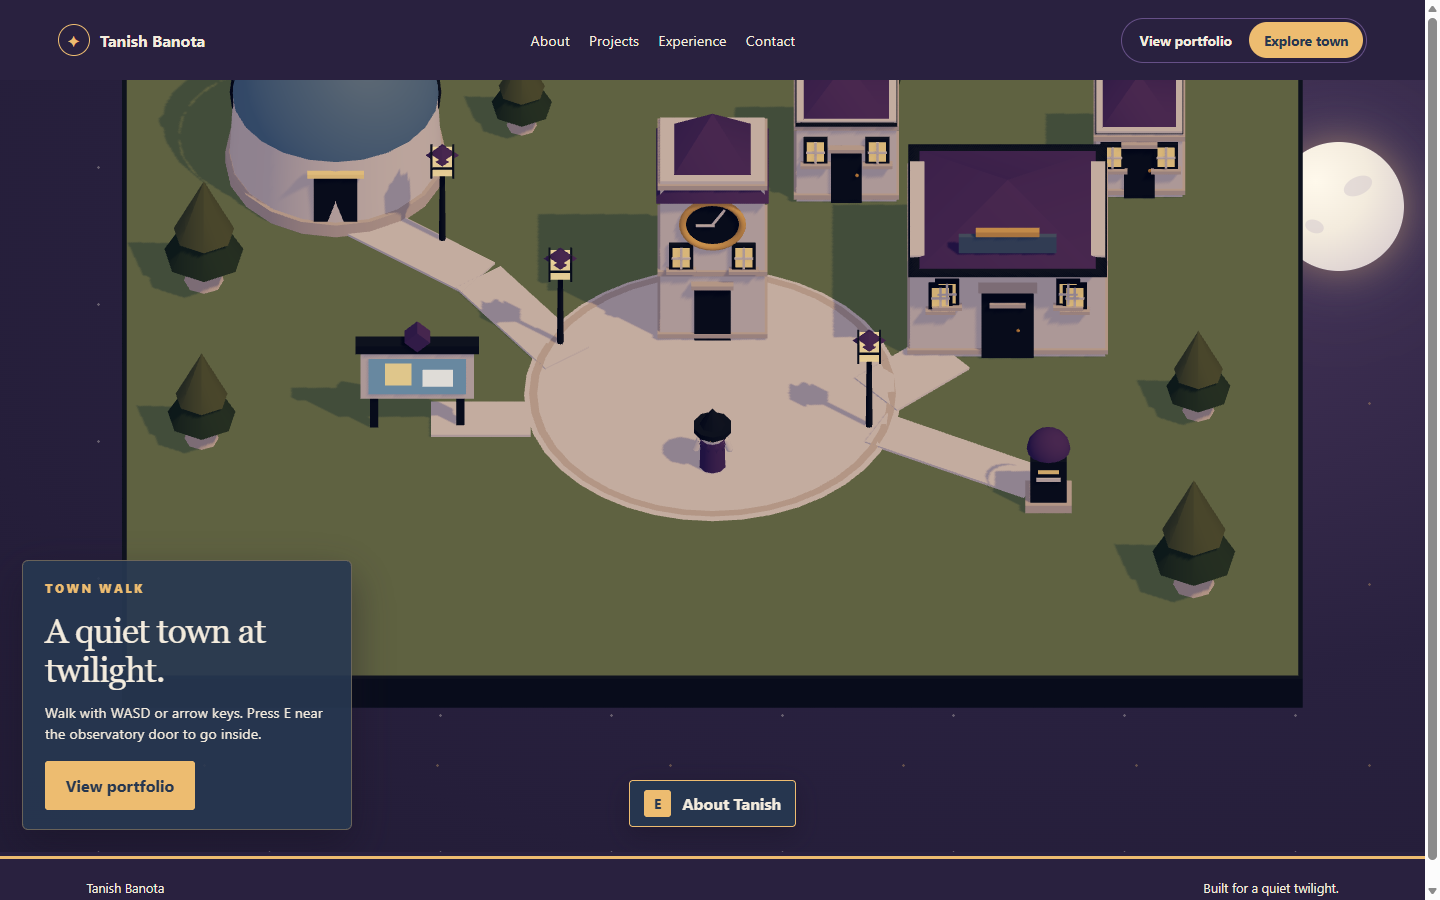
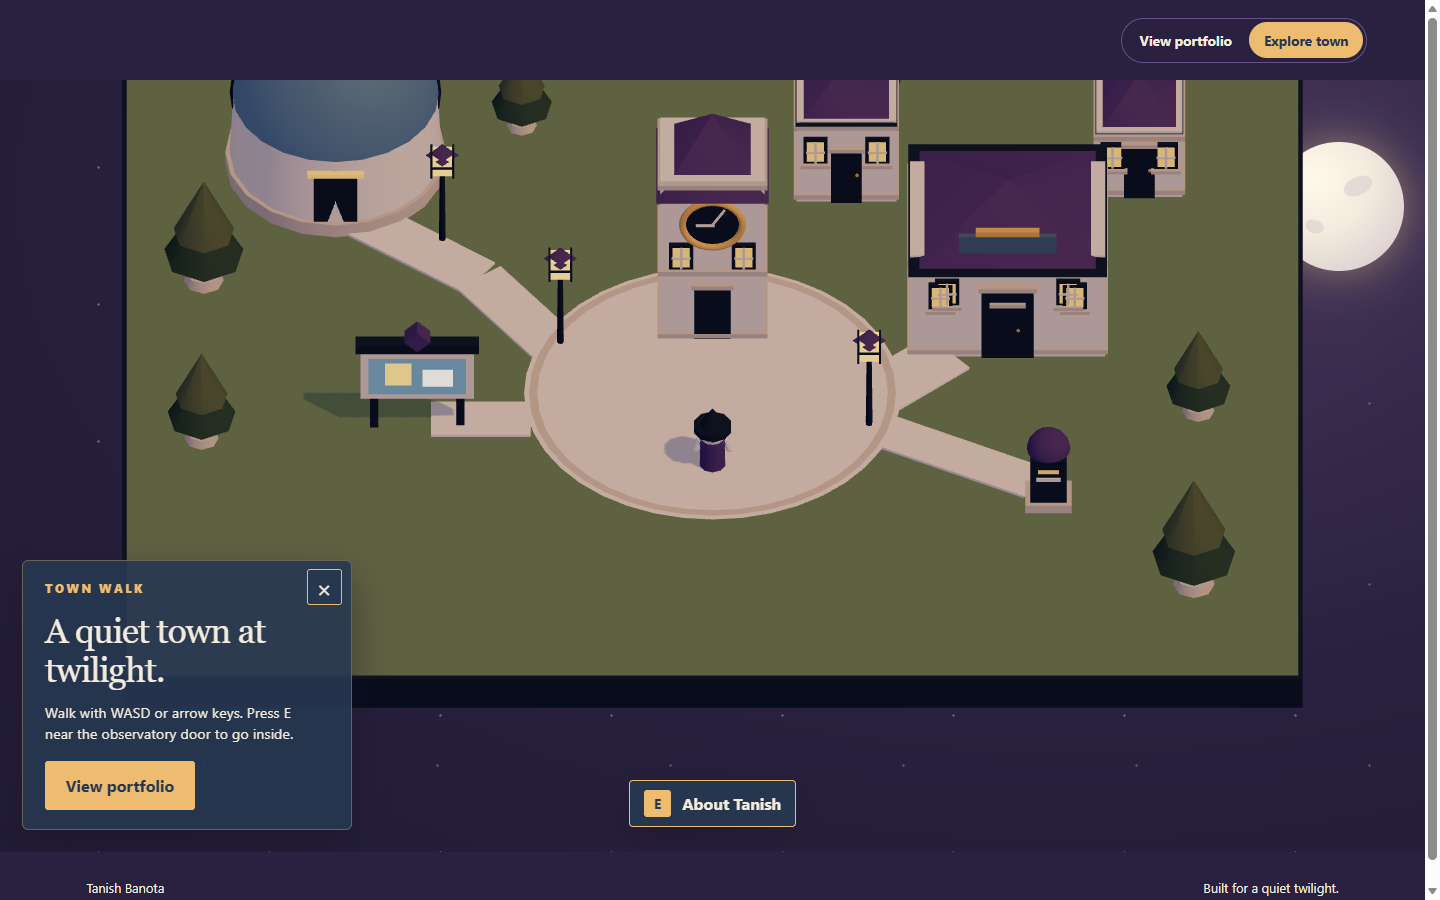
Fixing rendering bugs, editing UI

diff --git a/src/App.tsx b/src/App.tsx
@@ -29,19 +29,32 @@ function WorldMessage({ failed, onExit, onRetry }: { failed: boolean; onExit: ()
   </main>;
 }
 
+function ViewSwitch({ isWorld, onPortfolio, onExplore }: { isWorld: boolean; onPortfolio: () => void; onExplore: () => void }) {
+  return <div className="view-switch">
+    <button type="button" aria-pressed={!isWorld} onClick={onPortfolio}>View portfolio</button>
+    <button type="button" aria-pressed={isWorld} onClick={onExplore}>Explore town</button>
+  </div>;
+}
+
 export default function App() {
-  const [view, setView] = useState<View>(() => import.meta.env.DEV && /(?:asset-export|preview)=/.test(window.location.search) ? 'world' : 'portfolio');
-  const [worldFailed, setWorldFailed] = useState(false);
+  const [view, setView] = useState<View>(() => new URLSearchParams(window.location.search).get('view') === 'portfolio' ? 'portfolio' : 'world');
+  const [worldFailed, setWorldFailed] = useState(() => !webglAvailable());
   const [attempt, setAttempt] = useState(0);
   const focusPortfolio = useRef(false);
   const isWorld = view === 'world';
 
   const showPortfolio = () => {
     focusPortfolio.current = true;
+    const url = new URL(window.location.href);
+    url.searchParams.set('view', 'portfolio');
+    window.history.replaceState(null, '', url);
     setView('portfolio');
     setWorldFailed(false);
   };
   const explore = () => {
+    const url = new URL(window.location.href);
+    url.searchParams.delete('view');
+    window.history.replaceState(null, '', url);
     setAttempt((current) => current + 1);
     setWorldFailed(!webglAvailable());
     setView('world');
@@ -57,27 +70,26 @@ export default function App() {
 
   const failure = <WorldMessage failed onExit={showPortfolio} onRetry={explore} />;
 
-  return <div className="site-shell">
+  return <div className={`site-shell ${isWorld ? 'world-mode' : ''}`}>
     <a className="skip-link" href="#main-content">Skip to main content</a>
-    <header className="site-header">
-      <a className="brand" href="#about" onClick={showPortfolio} aria-label={`${portfolio.name}, portfolio home`}>
-        <span className="brand-mark" aria-hidden="true">✦</span>
-        <span>{portfolio.name}</span>
-      </a>
-      <nav aria-label="Main navigation">
-        <a href="#about" onClick={showPortfolio}>About</a>
-        <a href="#projects" onClick={showPortfolio}>Projects</a>
-        <a href="#experience" onClick={showPortfolio}>Experience</a>
-        <a href="#contact" onClick={showPortfolio}>Contact</a>
-      </nav>
+    {!isWorld ? <header className="site-header">
+        <a className="brand" href="#about" onClick={showPortfolio} aria-label={`${portfolio.name}, portfolio home`}>
+          <span className="brand-mark" aria-hidden="true">✦</span>
+          <span>{portfolio.name}</span>
+        </a>
+        <nav aria-label="Main navigation">
+          <a href="#about" onClick={showPortfolio}>About</a>
+          <a href="#projects" onClick={showPortfolio}>Projects</a>
+          <a href="#experience" onClick={showPortfolio}>Experience</a>
+          <a href="#contact" onClick={showPortfolio}>Contact</a>
+        </nav>
       <div className="view-control">
-        <div className="view-switch">
-          <button type="button" aria-pressed={!isWorld} onClick={showPortfolio}>View portfolio</button>
-          <button type="button" aria-pressed={isWorld} onClick={explore}>Explore town</button>
-        </div>
+        <ViewSwitch isWorld={isWorld} onPortfolio={showPortfolio} onExplore={explore} />
         <span className="explore-note">Town exploration needs a keyboard.</span>
       </div>
-    </header>
+    </header> : <div className="world-view-switch">
+      <ViewSwitch isWorld={isWorld} onPortfolio={showPortfolio} onExplore={explore} />
+    </div>}
     {isWorld ? worldFailed ? failure : (
       <WorldErrorBoundary key={attempt} fallback={failure}>
         <Suspense fallback={<WorldMessage failed={false} onExit={showPortfolio} />}>

diff --git a/src/world/Town.tsx b/src/world/Town.tsx
@@ -6,9 +6,9 @@ type Position = [number, number, number];
 
 // The kit is built at world scale with bases at y=0. Decorative pieces never
 // participate in collision; collision.ts retains the approved footprints.
-function StoneCourse({ width, depth, y }: { width: number; depth: number; y: number }) {
+function StoneCourse({ width, depth, y, thickness = 0.13 }: { width: number; depth: number; y: number; thickness?: number }) {
   return <mesh position={[0, y, 0]} castShadow receiveShadow>
-    <boxGeometry args={[width + 0.12, 0.13, depth + 0.12]} />
+    <boxGeometry args={[width + 0.12, thickness, depth + 0.12]} />
     <meshStandardMaterial color={paint.stoneShade} roughness={1} />
   </mesh>;
 }
@@ -34,8 +34,8 @@ function Path({ from, to, width = 1.2 }: { from: Point; to: Point; width?: numbe
   );
 }
 
-function Building({ position, width = 2.2, depth = 2, height = 2.4, roof = paint.roof }: {
-  position: Position; width?: number; depth?: number; height?: number; roof?: string;
+function Building({ position, width = 2.2, depth = 2, height = 2.4, roof = paint.roof, groundedFoundation = false }: {
+  position: Position; width?: number; depth?: number; height?: number; roof?: string; groundedFoundation?: boolean;
 }) {
   return (
     <group position={position}>
@@ -43,7 +43,8 @@ function Building({ position, width = 2.2, depth = 2, height = 2.4, roof = paint
         <boxGeometry args={[width, height, depth]} />
         <meshStandardMaterial color={paint.cream} roughness={1} />
       </mesh>
-      <StoneCourse width={width} depth={depth} y={0.18} />
+      {/* Rear houses need a continuous stone edge below the terrain plane. */}
+      <StoneCourse width={width} depth={depth} y={groundedFoundation ? 0.1 : 0.18} thickness={groundedFoundation ? 0.24 : 0.13} />
       <StoneCourse width={width} depth={depth} y={height - 0.18} />
       <mesh position={[0, height + 0.38, 0]} rotation={[0, Math.PI / 4, 0]} castShadow>
         <coneGeometry args={[Math.max(width, depth) * 0.66, 0.92, 4]} />
@@ -254,11 +255,11 @@ export function Town() {
         <planeGeometry args={[25.8, 20.8]} />
         <meshStandardMaterial color={paint.grass} emissive={paint.grass} emissiveIntensity={0.25} roughness={1} />
       </mesh>
-      <mesh rotation={[-Math.PI / 2, 0, 0]} position={[0, 0.03, 1.2]} receiveShadow>
+      <mesh rotation={[-Math.PI / 2, 0, 0]} position={[0, 0.08, 1.2]} receiveShadow>
         <circleGeometry args={[4.15, 40]} />
         <meshStandardMaterial color={paint.cream} roughness={1} />
       </mesh>
-      <mesh rotation={[-Math.PI / 2, 0, 0]} position={[0, 0.07, 1.2]}><ringGeometry args={[3.86, 4.04, 40]} /><meshStandardMaterial color={paint.stoneShade} /></mesh>
+      <mesh rotation={[-Math.PI / 2, 0, 0]} position={[0, 0.095, 1.2]}><ringGeometry args={[3.86, 4.04, 40]} /><meshStandardMaterial color={paint.stoneShade} /></mesh>
       <Path from={[-3.2, 0]} to={[-5.15, -2.65]} />
       <Path from={[-5.15, -2.65]} to={[-7.95, -4.75]} />
       <Path from={[-4, 2]} to={[-6.2, 2]} width={1.1} />
@@ -269,8 +270,8 @@ export function Town() {
       <TownHall />
       <PostBox />
       <Observatory />
-      <Building position={[2.95, 0, -6.2]} />
-      <Building position={[9.4, 0, -6.3]} width={1.9} depth={1.9} height={1.95} />
+      <Building position={[2.95, 0, -6.2]} groundedFoundation />
+      <Building position={[9.4, 0, -6.3]} width={1.9} depth={1.9} height={1.95} groundedFoundation />
       <Tree position={[-11.25, 0, 2.6]} scale={0.9} />
       <Tree position={[-11.2, 0, -2.6]} scale={1.05} />
       <Tree position={[-4.2, 0, -7.7]} scale={0.8} />

diff --git a/src/world/WorldExperience.tsx b/src/world/WorldExperience.tsx
@@ -17,6 +17,7 @@ export default function WorldExperience({ onExit, onFatalError }: { onExit: () =
   const [spawn, setSpawn] = useState<Point>(devScene === 'town' ? townSpawn : observatorySpawn);
   const [transition, setTransition] = useState<Transition>('idle');
   const [assetError, setAssetError] = useState(false);
+  const [guideOpen, setGuideOpen] = useState(true);
   const worldMain = useRef<HTMLElement>(null);
   const pendingScene = useRef<SceneId | null>(null);
 
@@ -59,19 +60,25 @@ export default function WorldExperience({ onExit, onFatalError }: { onExit: () =
 
   useLayoutEffect(() => { worldMain.current?.focus({ preventScroll: true }); }, []);
 
+  const toggleGuide = () => {
+    setGuideOpen((open) => !open);
+    requestAnimationFrame(() => worldMain.current?.focus({ preventScroll: true }));
+  };
+
   return <>
-    <main id="main-content" className={`world-view ${scene === 'observatory' ? 'interior' : ''}`} ref={worldMain} tabIndex={-1}>
+    <main id="main-content" className={`world-view ${scene === 'observatory' ? 'interior' : ''} ${guideOpen ? '' : 'guide-closed'}`} ref={worldMain} tabIndex={-1}>
       <div className="world-moon" aria-hidden="true" />
       <WorldCanvas scene={scene} spawn={spawn} enabled={activePanel === null && transition === 'idle'}
         onNearestChange={handleNearestChange} onOpenPanel={activateAnchor}
         onAssetError={() => setAssetError(true)} onFatalError={onFatalError} />
-      <div className="world-overlay">
+      {guideOpen ? <div className="world-overlay" id="town-guide">
+        <button type="button" className="world-guide-close" onClick={toggleGuide} aria-label="Close town guide">×</button>
         <p className="eyebrow">{portfolio.worldIntro[scene].eyebrow}</p>
         <h1>{portfolio.worldIntro[scene].title}</h1>
         <p>{portfolio.worldIntro[scene].description}</p>
         {assetError && <p role="status">Scene detail failed to load. Landmarks and interactions remain available.</p>}
         <button type="button" className="primary-button" onClick={onExit}>View portfolio</button>
-      </div>
+      </div> : <button type="button" className="world-guide-reopen" onClick={toggleGuide}>Show town guide</button>}
       {activePanel === null && transition === 'idle' && <Hud nearest={nearest} />}
       <div className={`scene-fade ${transition}`} aria-hidden="true" onTransitionEnd={handleFadeEnd} />
     </main>

diff --git a/src/styles.css b/src/styles.css
@@ -33,3 +33,6 @@
 .view-control{display:flex;align-items:center;flex-direction:column;gap:.3rem}.explore-note{font-size:.72rem;color:#d8ccbc;text-align:center}.world-message{min-height:calc(100vh - 10rem);display:grid;place-items:center;padding:2rem;background:radial-gradient(ellipse at 70% 20%,#49365c,#29213f 65%);color:#f3ebdd}.world-message-card{width:min(100%,34rem);padding:clamp(1.5rem,5vw,2.5rem);border:1px solid #edbc70;border-radius:6px;background:#263750}.world-message-card h1{font-size:clamp(2rem,5vw,3.5rem);letter-spacing:-.035em}.world-message-card p{line-height:1.5}.world-message-card .eyebrow{color:#edbc70}.world-message-actions{display:flex;flex-wrap:wrap;gap:.75rem}.world-message-actions .primary-button{background:#edbc70;color:#263750}.world-message-actions .primary-button:hover{background:#f3ebdd}
 :focus-visible{outline-color:#263750;box-shadow:0 0 0 5px #edbc70}.site-header :focus-visible,.contact :focus-visible,.world-view :focus-visible,.world-message :focus-visible{outline-color:#edbc70;box-shadow:0 0 0 2px #263750}.portfolio:focus,.world-view:focus,.world-message:focus{outline:none;box-shadow:none}
 @media(max-width:650px){.view-control{width:100%;align-items:flex-start}.explore-note{text-align:left}.world-message{min-height:65vh;padding:1rem}}
+
+.site-shell.world-mode{position:relative;display:flex;flex-direction:column;min-height:100vh}.world-mode .world-view{flex:1;height:auto;min-height:560px;max-height:none}.world-mode .world-message{flex:1}.world-view-switch{position:absolute;z-index:6;top:1rem;right:clamp(1rem,4vw,4rem)}.world-view-switch :focus-visible{outline-color:#f3ebdd;box-shadow:0 0 0 2px #263750}.world-mode .world-moon{top:6rem}.world-overlay{padding-right:2.5rem}.world-guide-close{position:absolute;top:.55rem;right:.6rem;display:grid;place-items:center;width:2.2rem;height:2.2rem;border:1px solid #edbc70;border-radius:3px;background:#263750;color:#f3ebdd;font-size:1.5rem;line-height:1}.world-guide-close:hover{background:#665087}.world-guide-reopen{position:absolute;z-index:2;bottom:1.4rem;left:1.4rem;border:1px solid #edbc70;border-radius:4px;padding:.65rem .9rem;background:#263750ed;color:#f3ebdd;font-weight:700}.world-guide-reopen:hover{background:#665087}
+@media(max-width:650px){.world-view-switch{top:.75rem;right:1rem}.world-view.guide-closed .interaction-prompt{bottom:5rem}.world-guide-reopen{bottom:1rem;left:1rem}}

diff --git a/src/world/BatchedStaticKit.tsx b/src/world/BatchedStaticKit.tsx
@@ -25,6 +25,7 @@ export function BatchedStaticKit({ children }: { children: ReactNode }) {
     const buckets = new Map<string, Mesh[]>();
     group.traverse((object) => {
       if (!(object instanceof Mesh) || Array.isArray(object.material)) return;
+      object.name = object.castShadow ? 'casts-shadow' : 'receives-only';
       const key = keyFor(object);
       buckets.set(key, [...(buckets.get(key) ?? []), object]);
     });
@@ -36,6 +37,7 @@ export function BatchedStaticKit({ children }: { children: ReactNode }) {
       geometries.forEach((geometry) => { geometry.dispose(); });
       if (!merged) continue;
       const batch = new Mesh(merged, meshes[0].material);
+      batch.name = meshes[0].name;
       batch.castShadow = meshes[0].castShadow;
       batch.receiveShadow = meshes[0].receiveShadow;
       meshes.forEach((mesh) => { mesh.visible = false; });

diff --git a/src/world/ModelAsset.tsx b/src/world/ModelAsset.tsx
@@ -8,11 +8,14 @@ export function ModelAsset({ file }: { file: 'town.glb' | 'observatory.glb' }) {
     const copy = scene.clone(true);
     copy.traverse((object) => {
       if (object instanceof Mesh) {
-        object.castShadow = true;
-        object.receiveShadow = true;
+        object.castShadow = file === 'town.glb' ? object.name === 'casts-shadow' : true;
+        // The town's buildings cast onto the terrain, but do not sample the
+        // shadow map on their own walls and foundations. That avoids the
+        // camera-dependent dark shimmer at the two rear house bases.
+        object.receiveShadow = file === 'town.glb' ? object.name === 'receives-only' : true;
       }
     });
     return copy;
-  }, [scene]);
+  }, [scene, file]);
   return <primitive object={model} />;
 }

diff --git a/src/world/WorldCanvas.tsx b/src/world/WorldCanvas.tsx
@@ -99,6 +99,7 @@ export function WorldCanvas({ scene, spawn, enabled, onNearestChange, onOpenPane
           intensity={1.35}
           color="#EDBC70"
           castShadow
+          shadow-normalBias={0.02}
           shadow-mapSize-width={1024}
           shadow-mapSize-height={1024}
           shadow-camera-left={-14}

diff --git a/README.md b/README.md
@@ -1,6 +1,6 @@
 # Twilight Town portfolio — Phase 7
 
-A static portfolio with a compact 3D town. The portfolio remains the default view. The original miniature character can walk to town landmarks, enter the observatory, use its telescope to read the Tranquility Base panel, and exit back to town.
+A static portfolio with a compact 3D town. Visitors arrive in the town first, with the portfolio one click away in the upper-right view switch. The original miniature character can walk to town landmarks, enter the observatory, use its telescope to read the Tranquility Base panel, and exit back to town.
 
 ## Run
 
@@ -33,15 +33,17 @@ Town and observatory GLBs load on demand within the canvas with predictable scen
 
 ## Phase 6 measured performance
 
-Measured November 21, 2026 at a 1440 x 900 browser viewport in headless Microsoft Edge with software WebGL (SwiftShader). Five-second samples after loading recorded **town: 68 draw calls, 9,274 triangles, 11.4 FPS** and **observatory: 71 draw calls, 5,113 triangles, 20.7 FPS**. The software renderer is slower than a normal GPU, so these FPS values are not laptop gameplay claims. Draw calls and triangles are below the plan's starting budgets of 150 and 100k–200k respectively. The town GLB is **236,548 bytes** and the observatory GLB **106,604 bytes**; each is well below the 8 MB starting download budget. The Phase 6 model loader chunk was 21.11 KB gzip and its initial JS chunk was 320.49 KB gzip.
+Measured November 21, 2026 at a 1440 x 900 browser viewport in headless Microsoft Edge with software WebGL (SwiftShader). Five-second samples after loading recorded **town: 68 draw calls, 9,274 triangles, 11.4 FPS** and **observatory: 71 draw calls, 5,113 triangles, 20.7 FPS**. After correcting ground shadows and the square surface, the town sample recorded **45 draw calls and 5,445 triangles**. The software renderer is slower than a normal GPU, so these FPS values are not laptop gameplay claims. Draw calls and triangles are below the plan's starting budgets of 150 and 100k–200k respectively. The town GLB is now **237,160 bytes** and the observatory GLB **106,604 bytes**; each is well below the 8 MB starting download budget. The Phase 6 model loader chunk was 21.11 KB gzip and its initial JS chunk was 320.49 KB gzip.
 
 The measurement script is `node scripts/measure-phase6.mjs` or `node scripts/measure-phase6.mjs --observatory` against a local Vite dev server and an Edge remote debugging session on port 9222. It writes the screenshots in `preview/`; the scene also exposes its one-time five-second sample as `window.__twilightMetrics`. Phase 7 moves the Three.js runtime out of the initial bundle, so the Phase 6 initial bundle size above is historical. A hardware browser and phone review remain necessary before release.
 
 ## Phase 7 access and recovery
 
-The regular HTML portfolio is the default route and renders without downloading the world chunk or GLBs. “Explore town” loads the 3D code only when selected; a loading view always offers a View portfolio button. WebGL availability is checked before entering the world. A render or chunk failure shows a retry and a route back to the portfolio, and context loss replaces the world with that recovery view. Broken model requests retain navigable primitive landmarks. The world requires a keyboard; every section and link remains available in the HTML view on phones and tablets. Native project dialogs keep focus within the panel, close with Escape, and restore the prior focus. Scene fades, camera smoothing, player bob, and stars respect reduced motion. The favicon and page metadata are in `index.html` and `public/favicon.svg`.
+The town is the default view. A floating upper-right switch reaches the regular HTML portfolio; appending `?view=portfolio` to the site URL opens a direct portfolio route without downloading the world chunk or GLBs. The town introduction can be closed and reopened. There is no navigation header in town. A loading view always offers a View portfolio button. WebGL availability is checked before entering the world. A render or chunk failure shows a retry and a route back to the portfolio, and context loss replaces the world with that recovery view. Broken model requests retain navigable primitive landmarks. The world requires a keyboard; every section and link remains available in the HTML view on phones and tablets. Native project dialogs keep focus within the panel, close with Escape, and restore the prior focus. Scene fades, camera smoothing, player bob, and stars respect reduced motion. The favicon and page metadata are in `index.html` and `public/favicon.svg`.
 
-The production smoke check (`node scripts/smoke-phase7.mjs` against `npm run preview` and headless Edge on port 9223) confirmed no world requests on first arrival, a working canvas after Explore, keyboard opening and closing of About, mobile access without horizontal overflow, and return to the portfolio when WebGL is unavailable. Build, lint, and seven collision/interaction tests pass.
+The production smoke check (`node scripts/smoke-phase7.mjs` against `npm run preview` and headless Edge on port 9223) checks world-first arrival, the closeable guide, direct portfolio access without world requests, keyboard opening and closing of About, mobile access without horizontal overflow, reduced motion, and return to the portfolio when WebGL is unavailable. Build, lint, and seven collision/interaction tests pass.
+
+The town GLB keeps the source meshes' shadow-casting choices, so flat terrain and paths receive shadows without casting their own. The square surface and rim sit above the joining paths at distinct heights. Town buildings cast shadows but do not sample shadows on their own walls and foundations, to avoid the camera-dependent shimmer at the rear houses. Collision and interaction coordinates did not change.
 
 ## Static deployment preparation
 
